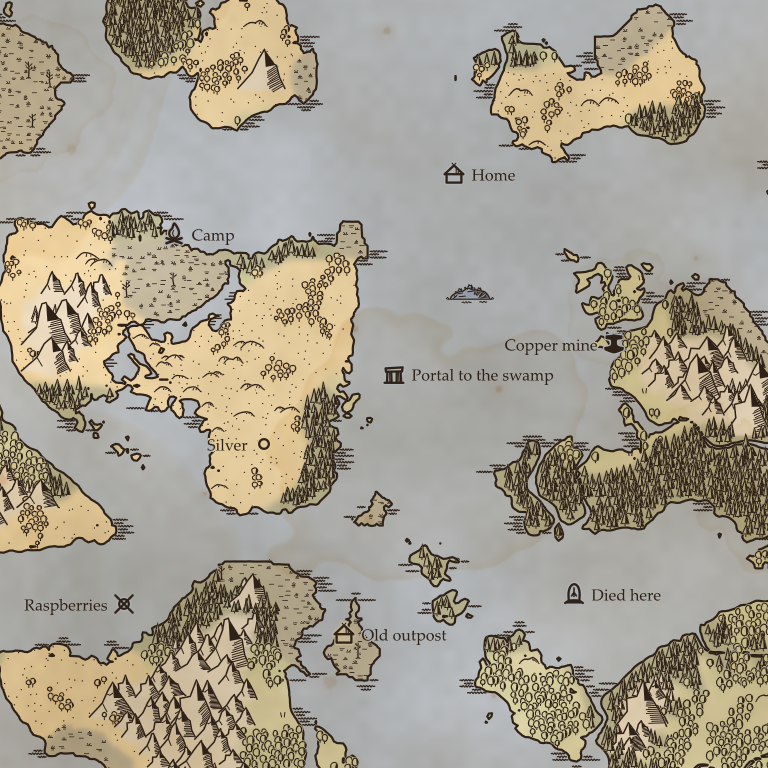
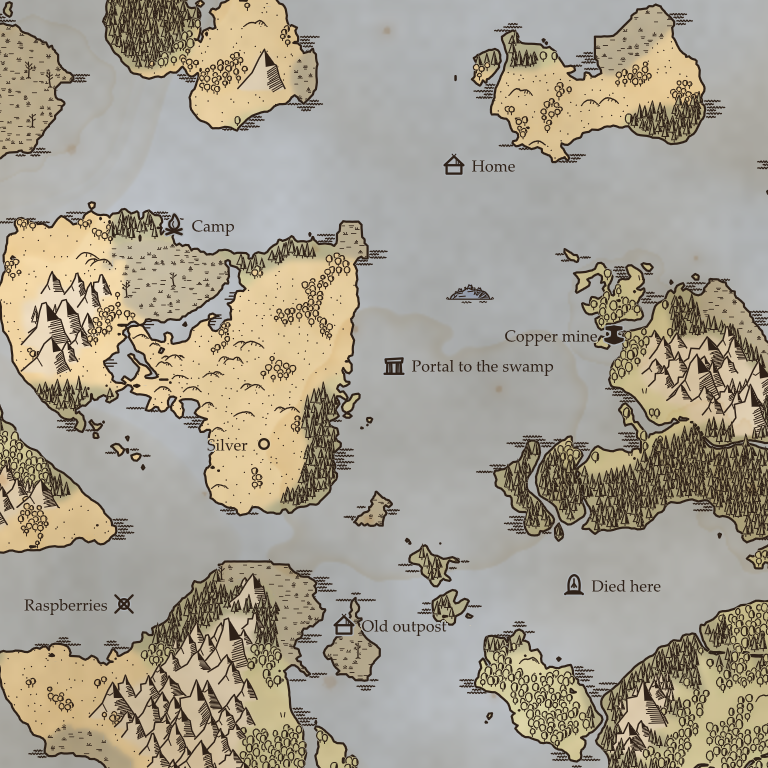
Stand pins on their place instead of centring them
The pins are drawn in elevation like the trees and peaks, so centred on their
place they seemed to float half a pin above or below it. A pin's glyph now stands
with its foot on the spot and its name is laid out round the glyph as drawn. The
open circle, the stone circle and icons traced from sprites, seen from above,
stay centred.

diff --git a/src/AtlasView.cs b/src/AtlasView.cs
@@ -70,6 +70,8 @@ namespace Atlas
         private RawImage m_fog;
         private readonly Vector3[] m_corners = new Vector3[4];
         private readonly List<RectTransform> m_pins = new List<RectTransform>();
+        // Each pin's lift (PinGlyphs.Lift), parallel to m_pins.
+        private readonly List<float> m_pinLifts = new List<float>();
         private Snapshot m_pinSnapshot;
         private Canvas m_canvas;
 
@@ -126,6 +128,7 @@ namespace Atlas
             if (m_root) Object.Destroy(m_root);
             m_root = null;
             m_pins.Clear();
+            m_pinLifts.Clear();
             m_pinSnapshot = null;
             m_density = null;
         }
@@ -329,6 +332,7 @@ namespace Atlas
             Canvas canvas = m_root.GetComponentInParent<Canvas>();
             m_canvas = canvas ? canvas.rootCanvas : null;
             m_pins.Clear();
+            m_pinLifts.Clear();
             m_pinSnapshot = null;
             m_appliedScale = -1f;
             m_appliedPosition = new Vector2(float.NaN, float.NaN);
@@ -354,6 +358,7 @@ namespace Atlas
             foreach (RectTransform pin in m_pins)
                 if (pin) Object.Destroy(pin.gameObject);
             m_pins.Clear();
+            m_pinLifts.Clear();
             m_labels.Clear();
             Minimap minimap = Minimap.instance;
             if (snapshot == null || !minimap) return;
@@ -367,27 +372,32 @@ namespace Atlas
             foreach (Snapshot.Pin pin in snapshot.m_pins)
             {
                 PinTextures textures;
-                if (drawn.TryGetValue(pin.m_icon, out PinGlyph glyph)) textures = Textures(glyph, null);
-                else if (sprites.TryGetValue(pin.m_icon, out Sprite sprite) && sprite) textures = Textures(PinGlyph.Traced, sprite);
+                PinGlyph glyph;
+                if (drawn.TryGetValue(pin.m_icon, out glyph)) textures = Textures(glyph, null);
+                else if (sprites.TryGetValue(pin.m_icon, out Sprite sprite) && sprite) textures = Textures(glyph = PinGlyph.Traced, sprite);
                 else continue;
                 if (textures == null) continue;
                 var holder = NewRect("Pin", m_pinLayer);
                 holder.anchorMin = holder.anchorMax = new Vector2(0.5f, 0.5f);
                 holder.anchoredPosition = new Vector2(pin.m_position.x / (2f * half) * size, pin.m_position.z / (2f * half) * size);
                 holder.sizeDelta = new Vector2(PinSize, PinSize);
-                AddBody(holder, textures.m_body, pin.m_position);
-                AddImage(holder, "Ink", textures.m_ink);
-                if (pin.m_checked && check != null) AddImage(holder, "Checked", check.m_ink);
+                // The holder sits on the pin's place; the glyph stands on it (PinGlyphs.Lift).
+                float lift = PinGlyphs.Lift(glyph) * PinSize;
+                AddBody(holder, textures.m_body, pin.m_position, lift);
+                AddImage(holder, "Ink", textures.m_ink, lift);
+                if (pin.m_checked && check != null) AddImage(holder, "Checked", check.m_ink, lift);
                 string label = Localization.instance.Localize(pin.m_name);
                 if (font && !string.IsNullOrEmpty(label))
                 {
                     PinLabel placed = AddLabel(holder, label, font);
+                    placed.m_lift = lift;
                     // Bosses and traders first, then named pins in the order they were made.
                     placed.m_priority = pin.m_type == Minimap.PinType.Boss || pin.m_type == Minimap.PinType.Hildir1
                         || pin.m_type == Minimap.PinType.Hildir2 || pin.m_type == Minimap.PinType.Hildir3 ? 0 : 1;
                     m_labels.Add(placed);
                 }
                 m_pins.Add(holder);
+                m_pinLifts.Add(lift);
             }
             m_labels.Sort((a, b) => a.m_priority.CompareTo(b.m_priority));
             m_layoutScale = -1f;
@@ -404,6 +414,8 @@ namespace Atlas
             public Vector2 m_size;
             public int m_priority;
             public int m_place = -1;
+            // How far the pin's glyph stands above its place (canvas units at screen size).
+            public float m_lift;
         }
 
         // A name: the letters in bare ink over their gap, a stencil of the same letters grown a
@@ -488,16 +500,18 @@ namespace Atlas
         {
             m_placed.Clear();
             float icon = PinSize * 0.5f + LabelGap;
-            foreach (RectTransform pin in m_pins)
+            for (int i = 0; i < m_pins.Count; i++)
             {
+                RectTransform pin = m_pins[i];
                 if (!pin) continue;
-                Vector2 at = pin.anchoredPosition * m_scale;
+                Vector2 at = pin.anchoredPosition * m_scale + new Vector2(0f, m_pinLifts[i]);
                 m_placed.Add(new Rect(at.x - PinSize * 0.5f, at.y - PinSize * 0.5f, PinSize, PinSize));
             }
             foreach (PinLabel label in m_labels)
             {
                 if (!label.m_rect) continue;
-                Vector2 at = label.m_holder.anchoredPosition * m_scale;
+                // Names are laid out round the glyph as drawn, which stands above the pin's place.
+                Vector2 at = label.m_holder.anchoredPosition * m_scale + new Vector2(0f, label.m_lift);
                 int chosen = PinLayout.Choose(at, label.m_size, label.m_place, icon, LabelClearance, m_placed, InkUnder);
                 label.m_place = chosen;
                 bool show = chosen >= 0;
@@ -506,7 +520,7 @@ namespace Atlas
                 Rect area = PinLayout.Area(at, label.m_size, chosen, icon);
                 m_placed.Add(area);
                 label.m_rect.pivot = new Vector2(0.5f, 0.5f);
-                label.m_rect.anchoredPosition = area.center - at;
+                label.m_rect.anchoredPosition = area.center - label.m_holder.anchoredPosition * m_scale;
                 int align = PinLayout.Alignment(chosen);
                 TextAlignmentOptions alignment = align < 0 ? TextAlignmentOptions.Left : align > 0 ? TextAlignmentOptions.Right : TextAlignmentOptions.Center;
                 label.m_text.alignment = alignment;
@@ -535,17 +549,18 @@ namespace Atlas
         // The pin's body: filled in the wash of the biome the pin stands in, as a peak's body is
         // filled in the mountains', so terrain ink stops at the pin's own outline. Before the
         // world is decoded, plain paper.
-        private void AddBody(RectTransform holder, Texture body, Vector3 position)
+        private void AddBody(RectTransform holder, Texture body, Vector3 position, float lift)
         {
             Color32 colour = Paper.PaperColor;
             if (m_world != null) colour = Paper.PinBodyColor(m_world.LandAt(position.x, position.z), m_world.IsWaterAt(position.x, position.z));
-            AddImage(holder, "Body", body).color = colour;
+            AddImage(holder, "Body", body, lift).color = colour;
         }
 
-        private static RawImage AddImage(RectTransform holder, string name, Texture texture)
+        private static RawImage AddImage(RectTransform holder, string name, Texture texture, float lift)
         {
             var rect = NewRect(name, holder, typeof(RawImage));
             rect.anchorMin = rect.anchorMax = new Vector2(0.5f, 0.5f);
+            rect.anchoredPosition = new Vector2(0f, lift);
             rect.sizeDelta = new Vector2(PinSize, PinSize);
             var image = rect.GetComponent<RawImage>();
             image.texture = texture;

diff --git a/src/Ink/PinGlyphs.cs b/src/Ink/PinGlyphs.cs
@@ -41,7 +41,7 @@ namespace Atlas
     /// glyph on the sheet is drawn, instead of a solid black icon on a parchment ring, which reads
     /// as a sticker on the hand-drawn map. The body is what keeps a pin legible
     /// on dark ground: inside it the paper shows with no terrain ink. Pins are laid out in a box of
-    /// PinUnits units, centred on the pin's place; pure math, so the preview draws them too.
+    /// PinUnits units, standing on the pin's place (Lift); pure math, so the preview draws them too.
     /// </summary>
     internal static class PinGlyphs
     {
@@ -59,6 +59,33 @@ namespace Atlas
         // and the share of the body above which the interior is left out (an all-dark icon).
         private const float TraceDark = 0.55f;
         private const float TraceMostDark = 0.6f;
+
+        // How far a glyph is lifted off its pin's place, as a share of the pin's size: a pin drawn
+        // in elevation stands on its place as a tree or a peak does, its foot (the ground line it
+        // is drawn on, in pin units) on the spot; signs seen from above (the open circle, the
+        // stone circle) and icons traced from sprites stay centred on it.
+        public static float Lift(PinGlyph glyph) => (FootOf(glyph) - PinUnits * 0.5f) / PinUnits;
+
+        private static float FootOf(PinGlyph glyph)
+        {
+            switch (glyph)
+            {
+                case PinGlyph.Fire: return 22.2f;
+                case PinGlyph.House: return 21.6f;
+                case PinGlyph.Hammer: return 22.4f;
+                case PinGlyph.Portal: return 21.8f;
+                case PinGlyph.Death: return 22f;
+                case PinGlyph.Bed: return 21.6f;
+                case PinGlyph.Boss: return 21.4f;
+                case PinGlyph.Tomb: return 21.4f;
+                case PinGlyph.Cavern: return 21.6f;
+                case PinGlyph.Tower: return 21.8f;
+                case PinGlyph.Trader: return 22.6f;
+                case PinGlyph.Tent: return 21.6f;
+                case PinGlyph.Cauldron: return 23.4f;
+                default: return PinUnits * 0.5f;
+            }
+        }
 
         public static PinMark Draw(PinGlyph glyph, int size)
         {

diff --git a/tools/preview/Program.cs b/tools/preview/Program.cs
@@ -572,10 +572,14 @@ internal static class Program
                 }
         }
 
+        // A pin's glyph stands on its place as the atlas window draws it (PinGlyphs.Lift), when
+        // this Atlas has it; rows run north here, so the lift is added.
+        MethodInfo liftOf = T("Atlas.PinGlyphs").GetMethod("Lift", All);
+        int Lift(string name) => liftOf == null ? 0 : (int)Math.Round((float)liftOf.Invoke(null, new object[] { Enum.Parse(kind, name) }) * size);
         var placed = new System.Collections.Generic.List<Rect>();
         foreach (object[] pin in s_testPins)
         {
-            int cx = n / 2 + (int)pin[0], cy = n / 2 + (int)pin[1];
+            int cx = n / 2 + (int)pin[0], cy = n / 2 + (int)pin[1] + Lift((string)pin[2]);
             placed.Add(new Rect(cx - size * 0.5f, cy - size * 0.5f, size, size));
             Glyph((string)pin[2], cx, cy, true);
             if ((bool)pin[4]) Glyph("Checked", cx, cy, false);
@@ -600,7 +604,7 @@ internal static class Program
                 float icon = size * 0.5f + 4f;
                 foreach (object[] pin in s_testPins)
                 {
-                    var at = new Vector2(n / 2 + (int)pin[0], n / 2 + (int)pin[1]);
+                    var at = new Vector2(n / 2 + (int)pin[0], n / 2 + (int)pin[1] + Lift((string)pin[2]));
                     SizeF measured = g.MeasureString((string)pin[3], font, 1000, format);
                     var extent = new Vector2(measured.Width + 2f, font.Height);
                     int place = (int)choose.Invoke(null, new object[] { at, extent, -1, icon, 2f, placed, inkUnder });

diff --git a/CLAUDE.md b/CLAUDE.md
@@ -20,7 +20,10 @@ Stack, build, verification and git workflow are shared by all mods: see `../CLAU
   filled in the wash of the biome under the pin (`Paper.PinBodyColor`: the biome's glaze on clean
   paper, as a peak's body takes the mountains', water's on water; biome and water from the
   sheet's `WorldSource`). A black icon on a parchment ring and a flat underlay behind names read
-  as modern stickers on the hand-drawn map.
+  as modern stickers on the hand-drawn map. A pin drawn in elevation stands on its place as a
+  tree or peak does, its foot on the spot (`PinGlyphs.Lift`, from each glyph's ground line in pin
+  units; the images and the name layout are lifted, the holder stays on the place); plan signs
+  (open circle, stone circle) and traced sprites stay centred.
   `src/Ink/PinGlyphs.cs` draws the vanilla pin icons in pen (fire: campfire, house: longhouse,
   the "hammer" as Mjolnir, a solid pendant silhouette after the Skane hammer, not a work hammer;
   circle: open circle; portal: dolmen; death: memorial stone with the yr rune on a mound, never a

diff --git a/CHANGELOG.md b/CHANGELOG.md
@@ -51,7 +51,7 @@
   death, a horned skull for a boss's altar, a barrow, a cave mouth and a tower for Hildir's
   requests, a stone circle for the Sacrificial Stones, a bag for Haldor, a tent for Hildir's
   camp and a cauldron for the Bog Witch; other places the game marks, such as the Forge of
-  Potential, are traced in outline. Each pin is filled in the colour of the biome it stands in and
+  Potential, are traced in outline. Each pin stands on its place as the trees and peaks do, is filled in the colour of the biome it stands in and
   the ground's pen marks break off round it, so it reads on the darkest woods. Names are
   lettered beside their pins on the clearest ground round them, the pen lines breaking off round
   their letters, and give way where pins crowd; checked pins are struck through.
